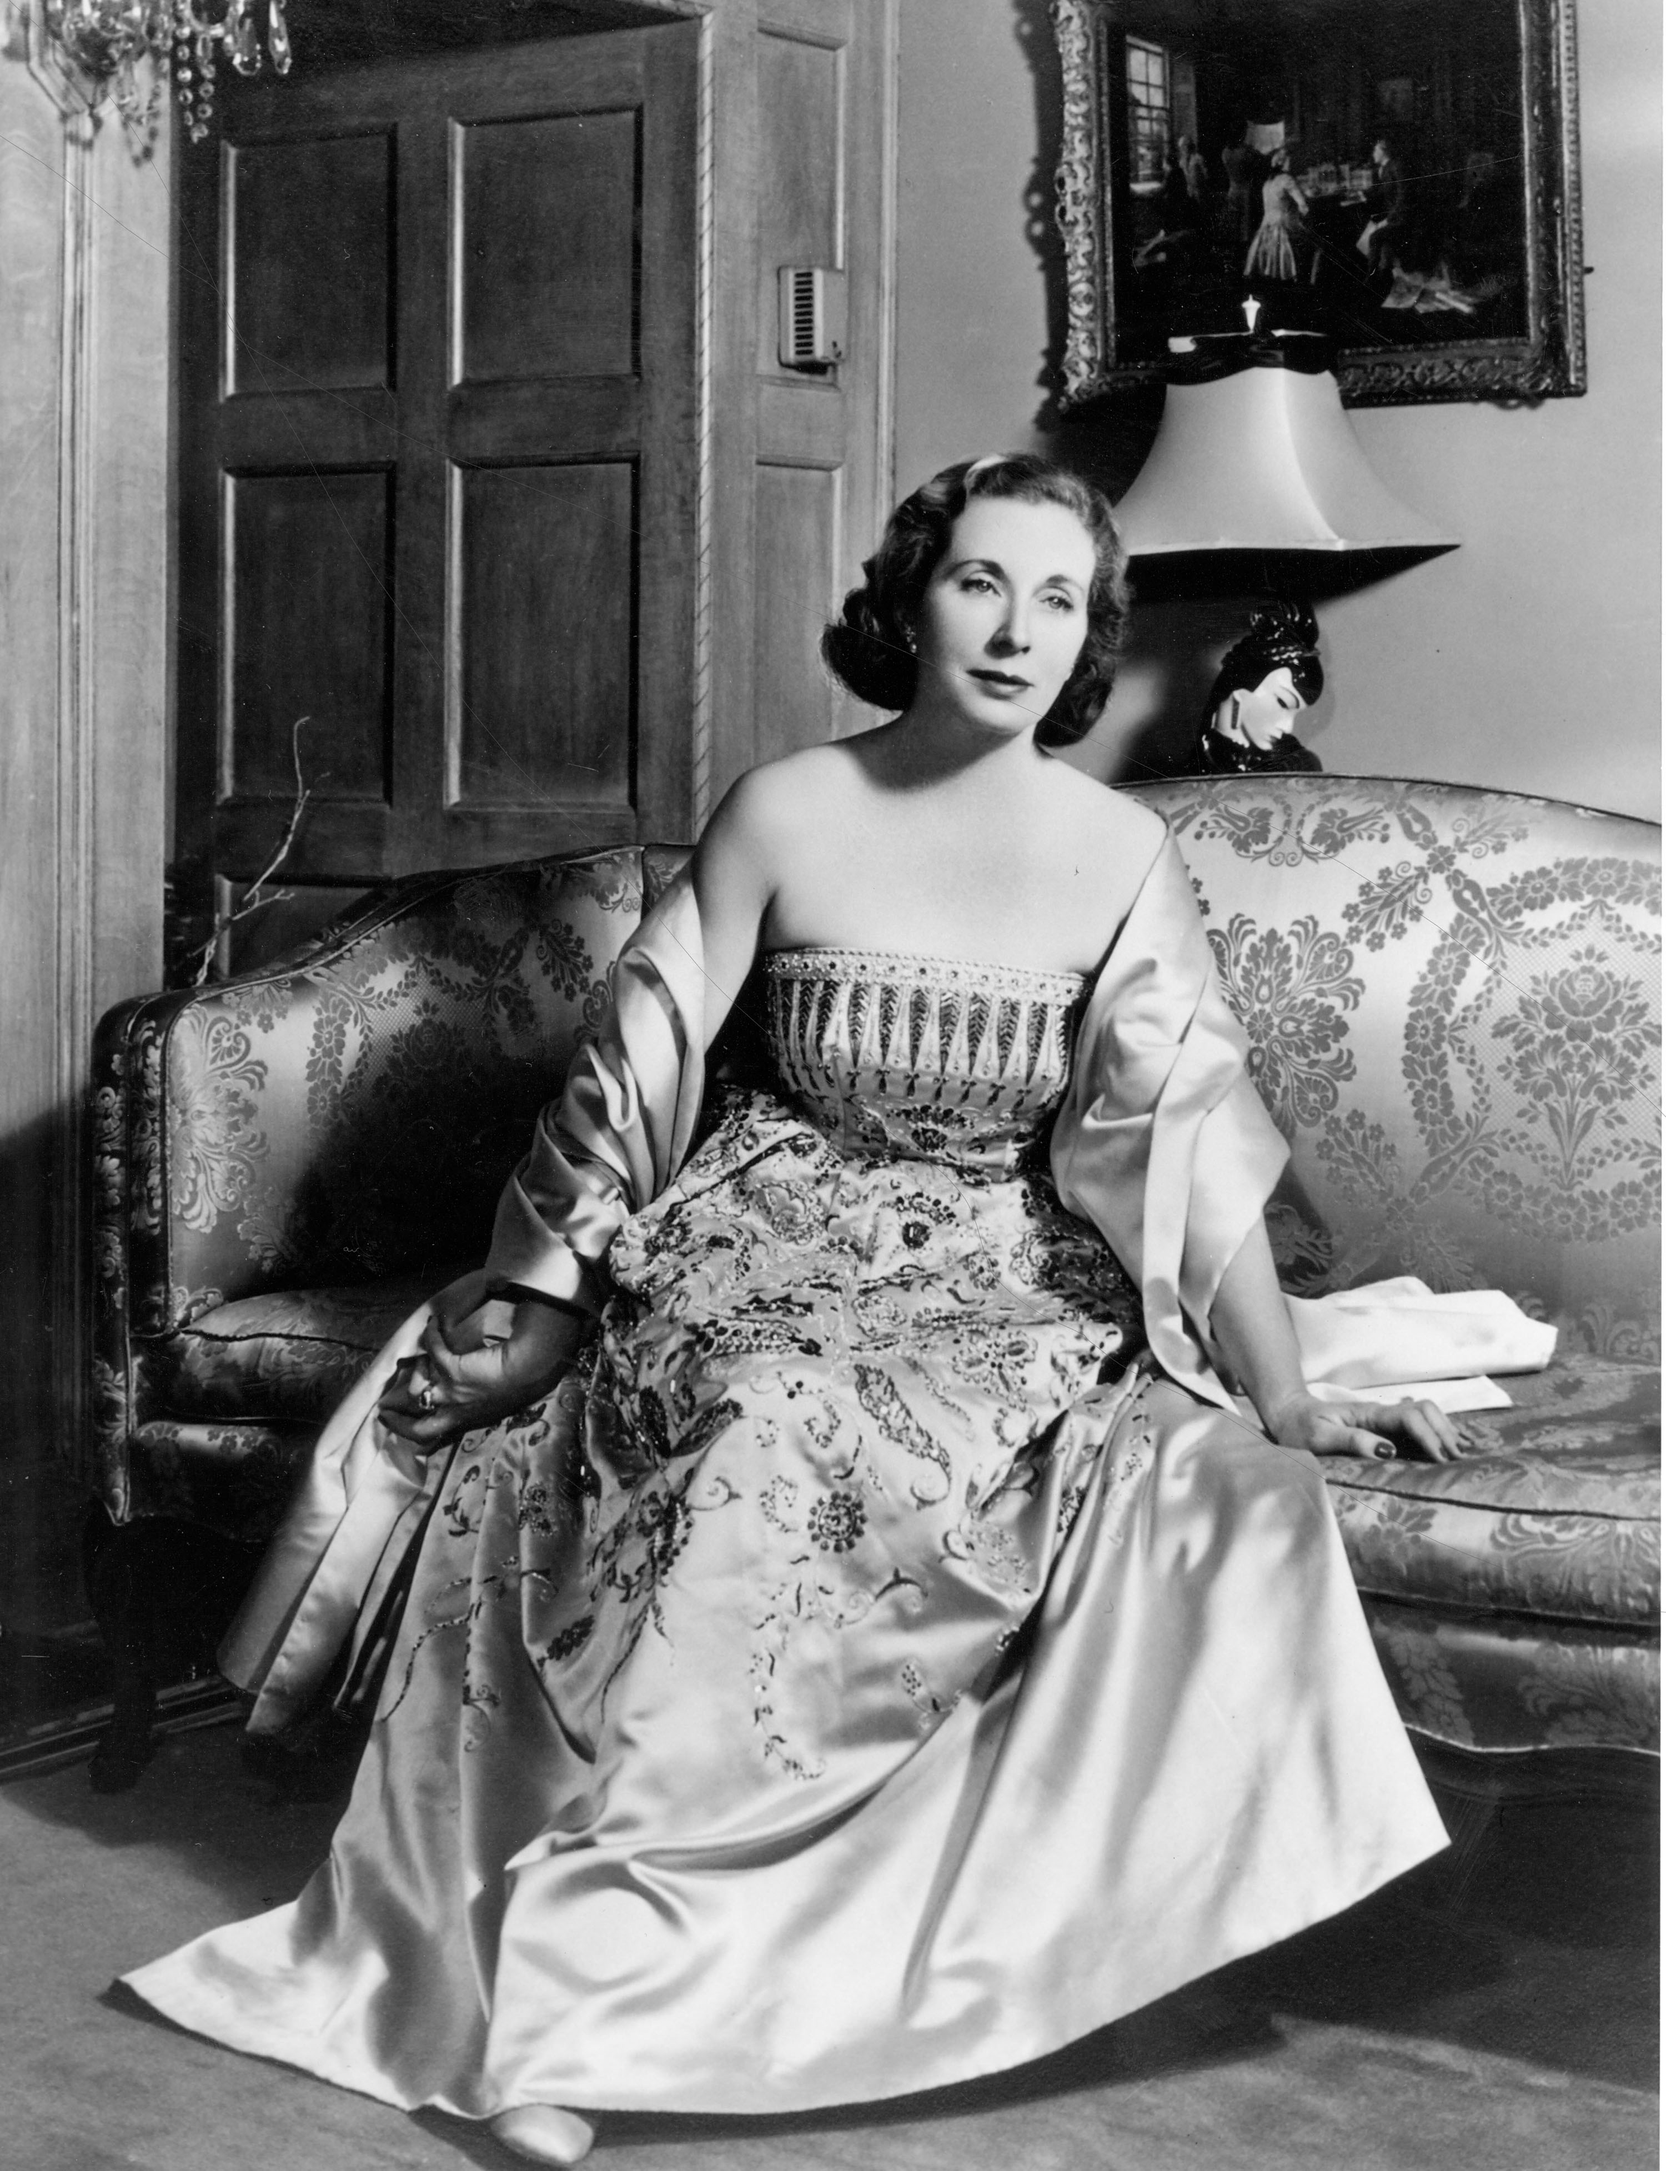
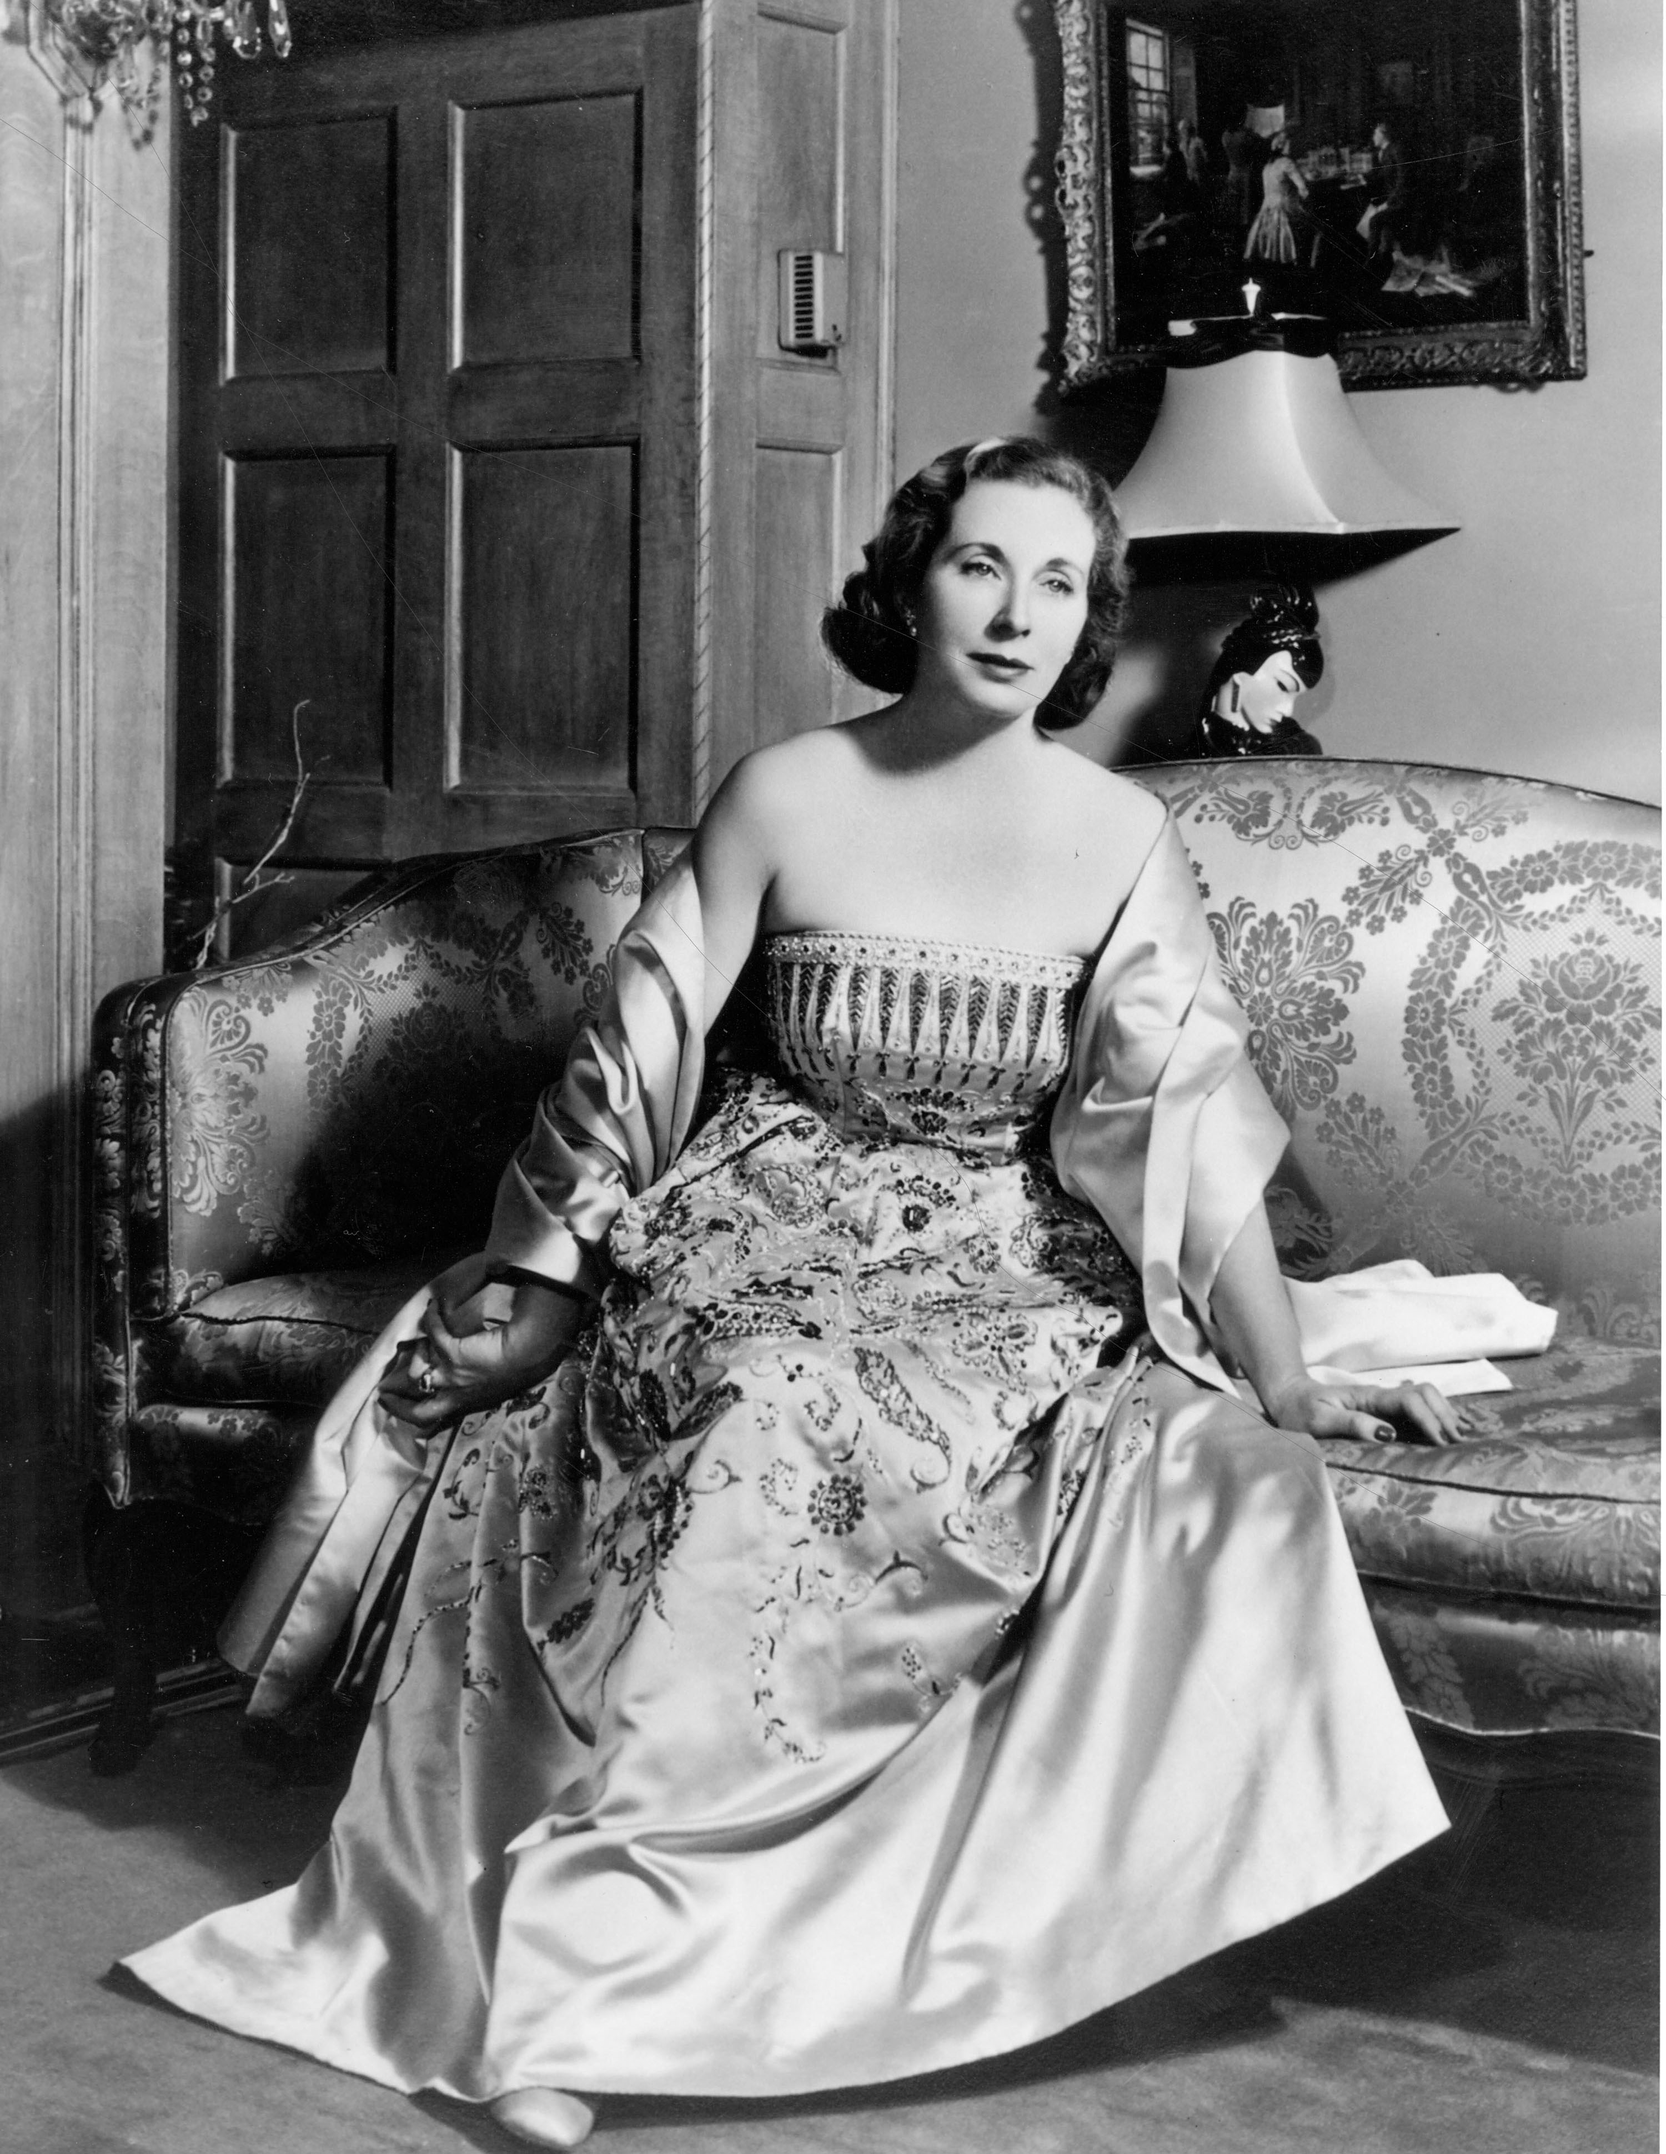
5.2 revision completed

diff --git a/5 Evening/5.2/slider1-fr.html b/5 Evening/5.2/slider1-fr.html
@@ -127,7 +127,7 @@
 							<div class="inner">
 								<div class="caption">
 									<h3>Charte</h3>
-									<p style="font-size:0.9em;">Toutes les chartes mentionnaient les modèles de chaque collection par catégorie, le nom des personnes les ayant réalisés, le nom des mannequins, et comprenaient des échantillons de tissu. On pouvait ainsi répartir équitablement le travil dans les ateliers et les mannequins avaient le temps de se changer lors des présentations quotidiennes.</p>
+									<p style="font-size:0.75em;">Toutes les chartes mentionnaient les modèles de chaque collection par catégorie, le nom des personnes les ayant réalisés, le nom des mannequins, et comprenaient des échantillons de tissu. On pouvait ainsi répartir équitablement le travil dans les ateliers et les mannequins avaient le temps de se changer lors des présentations quotidiennes.</p>
 									<div class="tombstone">Collection Dior Héritage, Paris</div>
 									<img src="img/1/3c.jpg" width="460" height="105" />
 									<img src="img/1/3.jpg" width="200" height="420" />

diff --git a/5 Evening/5.2/slider1.html b/5 Evening/5.2/slider1.html
@@ -127,7 +127,7 @@
 							<div class="inner">
 								<div class="caption">
 									<h3>Chart</h3>
-									<p style="font-size:0.9em;">Each chart recorded the designs in a collection by type, who made it, for whom, and with textile swatches. This ensured the ateliers’ work was evenly distributed and that the mannequins had time to change during daily presentations.</p>
+									<p style="font-size:0.75em;">Each chart recorded the designs in a collection by type, who made it, for whom, and with textile swatches. This ensured the ateliers’ work was evenly distributed and that the mannequins had time to change during daily presentations.</p>
 									<div class="tombstone">Dior Héritage Collection, Paris</div>
 									<img src="img/1/3c.jpg" width="460" height="105" />
 									<img src="img/1/3.jpg" width="200" height="420" />

diff --git a/5 Evening/5.2/css/style.css b/5 Evening/5.2/css/style.css
@@ -668,7 +668,7 @@ html body .ui-group-theme-a a:visited {
 }
 
 .full-page .col.light-grey .inner {
-	margin-top: 150px;
+	margin-top: 80px;
 }
 
 .full-page.chart .col.light-grey img {
